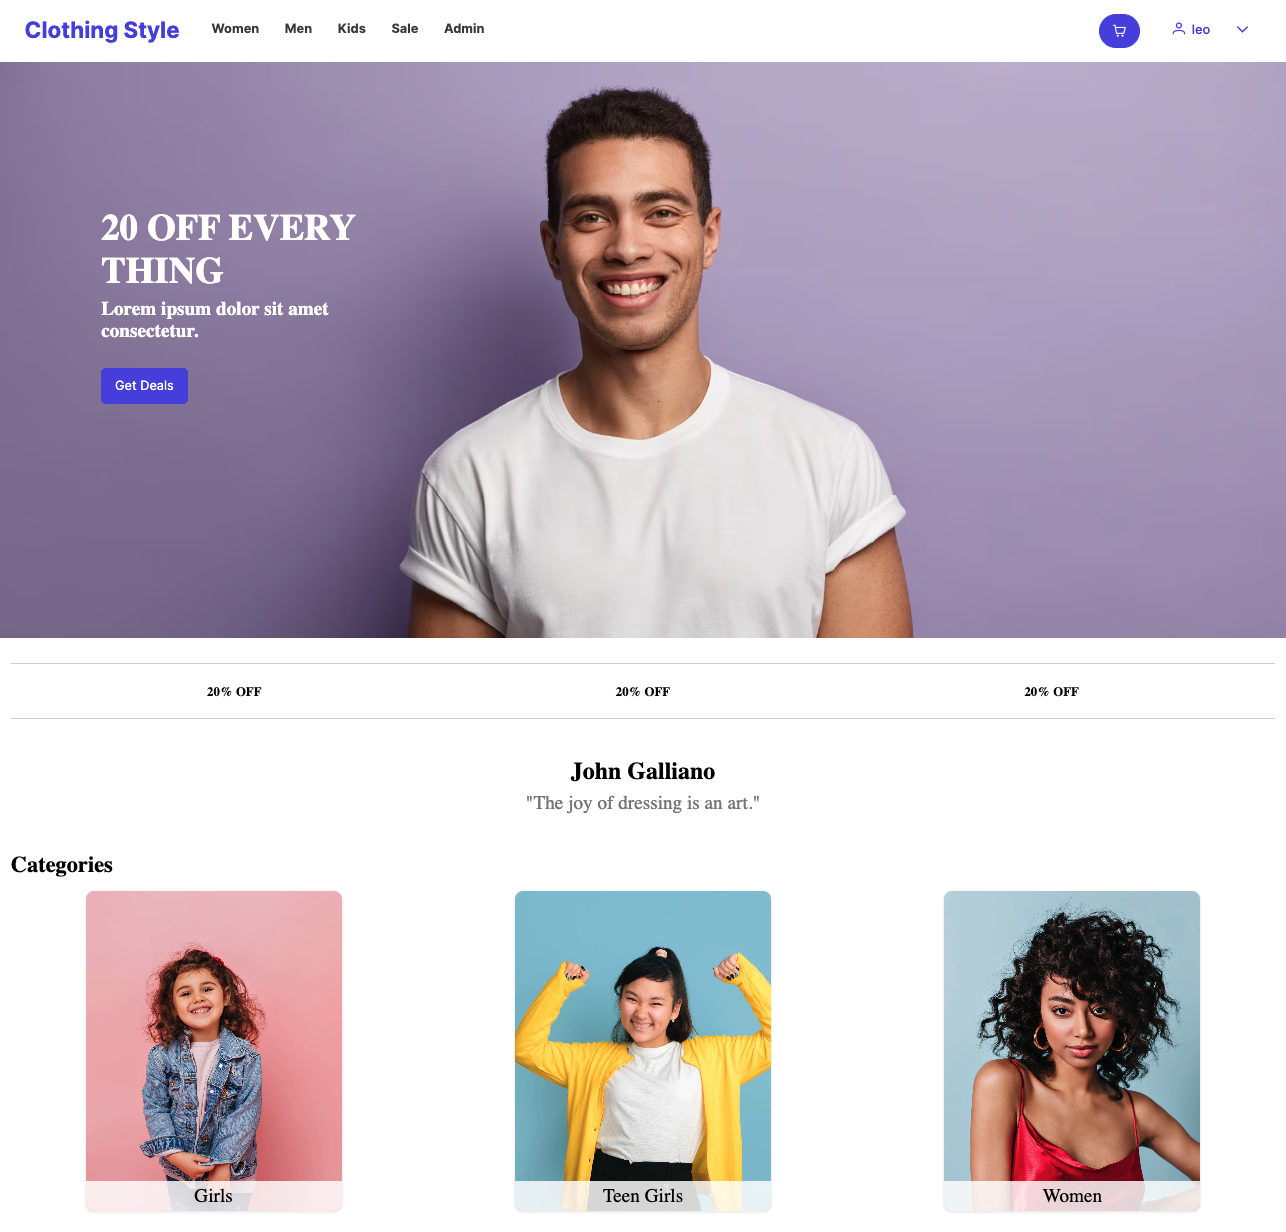
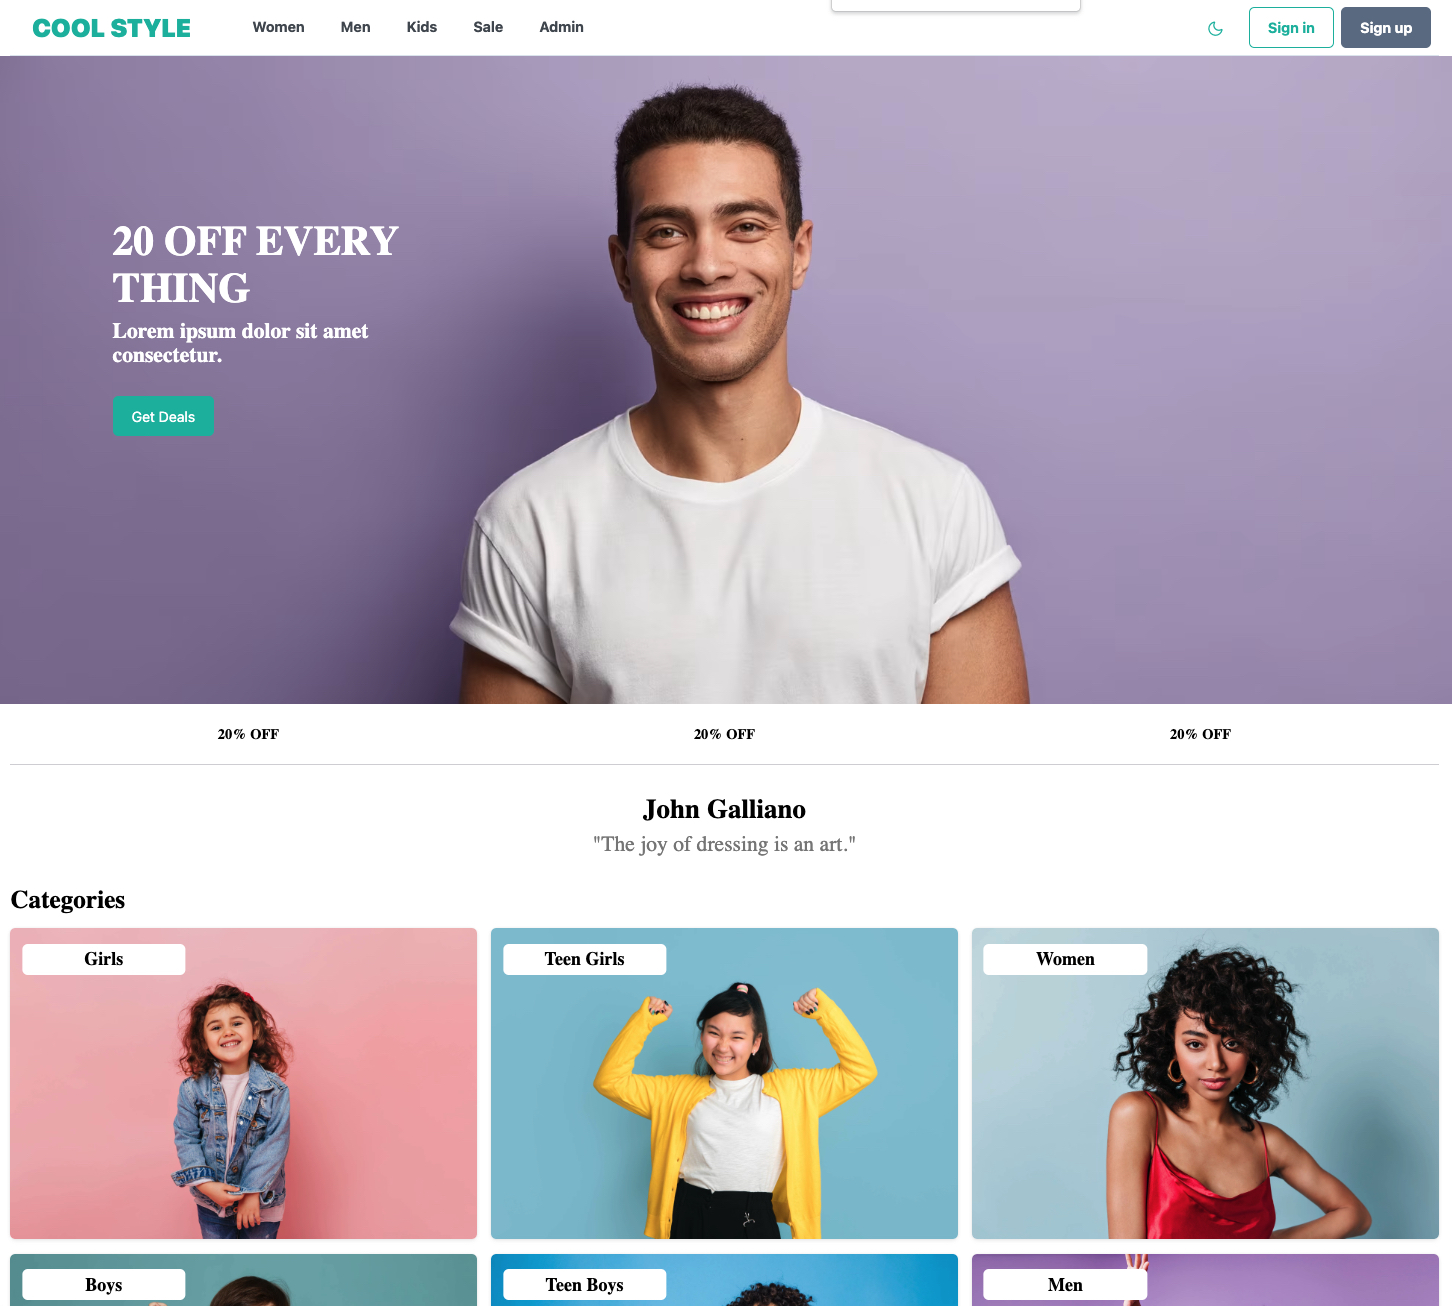
feat: add theme and dark mode
This adds different theme.
update footer.scss, homePage.scss and navbar.scss
fix homePage categories design

diff --git a/src/components/Navbar.jsx b/src/components/Navbar.jsx
@@ -1,15 +1,14 @@
 import React, { useContext, useState } from "react";
 import PrimeReact from "primereact/api";
 
-import { UserContext } from "../pages/auth/context/UserContext";
-
 import { Menubar } from "primereact/menubar";
 import { SplitButton } from "primereact/splitbutton";
 import { useNavigate } from "react-router-dom";
 import { Button } from "primereact/button";
+
+import { UserContext } from "../pages/auth/context/UserContext";
 import logo from "../../public/images/clothing-logo.svg";
 import "../styles/navbar.scss";
-PrimeReact.ripple = true;
 
 export const Navbar = () => {
   const navigate = useNavigate();
@@ -26,19 +25,8 @@ export const Navbar = () => {
       () => setTheme(newTheme)
     );
   };
-  // const changeMyTheme = () => {
-  //   console.log("...");
-  //   const newTheme = theme === "dark" ? "light" : "dark";
-  //   PrimeReact?.changeTheme?.(
-  //     `lara-${theme}-teal`,
-  //     `lara-${newTheme}-teal`,
-  //     "app-theme",
-  //     () => setTheme(newTheme)
-  //   );
-  // };
 
   const userOptions = [
-    // { icon: "pi pi-home", command: () => navigate("/home") },
     { label: "Women", command: () => navigate("/women") },
     { label: "Men", command: () => navigate("/men") },
     { label: "Kids", command: () => navigate("/kids") },
@@ -71,29 +59,30 @@ export const Navbar = () => {
   ];
 
   const end = globalUser.name ? (
-    <div>
+    <>
       <Button
         text
-        className="p-button-primary mr-2"
+        className="mr-2"
         onClick={() => changeMyTheme()}
       >
         <span className={`pi pi-${theme === "dark" ? "sun" : "moon"}`}></span>
       </Button>
+
       <Button
         badge={globalUser?.cart?.length}
-        className={`mr-4  ${globalUser.name === "admin" ? "hidden" : ""}`}
+        className={`mr-2 ${globalUser.name === "admin" ? "hidden" : ""}`}
         onClick={() => navigate("/cart")}
       >
         <i className="pi pi-shopping-cart"></i>
       </Button>
 
       <SplitButton
+        text
         label={globalUser?.name}
         icon="pi pi-user "
-        className=" p-button-text p-button-oulined"
         model={profileButton}
       ></SplitButton>
-    </div>
+    </>
   ) : (
     <span>
       <Button
@@ -105,14 +94,14 @@ export const Navbar = () => {
       </Button>
 
       <Button
-        label="Log in"
-        className="p-button-outlined  mr-2"
+        label="Sign in"
+        className="p-button-outlined mr-2"
         onClick={() => navigate("/sign_in")}
       />
 
       <Button
         label="Sign up"
-        className="p-button-secondary  "
+        className="p-button-secondary "
         onClick={() => navigate("/sign_up")}
       />
     </span>
@@ -121,14 +110,13 @@ export const Navbar = () => {
   const start = (
     <span
       className="textLogo"
-      style={{ cursor: "pointer" }}
       onClick={() => navigate("/home")}
     >
       {/* <img
-          src={logo}
-          width={30}
-          height={30}
-        /> */}
+        src={logo}
+        width={30}
+        height={30}
+      /> */}
       Cool Style
     </span>
   );

diff --git a/src/components/Footer.jsx b/src/components/Footer.jsx
@@ -5,7 +5,7 @@ import { socialItems } from "../utils/socialItemArr";
 import "../styles/footer.scss";
 export const Footer = () => {
   return (
-    <div className="footer ">
+    <footer className="footer ">
       <div className="footer__mailSection ">
         <h2>Sign up for our mailing list</h2>
         <p>Be the first to hear about new product</p>
@@ -25,7 +25,6 @@ export const Footer = () => {
                 size="small"
                 icon={item.icon}
                 className="bg-white text-primary"
-                // aria-label="Bookmark"
               />
             ))}
           </span>
@@ -78,10 +77,10 @@ export const Footer = () => {
         </div>
 
         <div className="footer__author">
-          <h4>Made by Leopoldo Miranda</h4>
-          <h5>All rights reserved</h5>
+          <p>Made by Leopoldo Miranda</p>
+          <p>All rights reserved</p>
         </div>
       </div>
-    </div>
+    </footer>
   );
 };

diff --git a/src/styles/footer.scss b/src/styles/footer.scss
@@ -21,10 +21,10 @@
 
     & > p {
       margin-top: 0.5rem;
+      font-size: 20px;
     }
 
     background: var(--primary-color);
-    // background: var(--surface-ground);
     color: #ffffff;
     padding: 0.5rem 1rem !important;
 
@@ -53,9 +53,6 @@
   }
 
   &__links {
-    // background-color: tomato;
-    // width: 500px;
-
     @media (min-width: 1024px) {
       display: flex;
       flex-direction: column;
@@ -78,6 +75,7 @@
       list-style-type: none;
       margin-bottom: 0.3rem;
       cursor: pointer;
+      font-size: 20px;
     }
 
     & h4,
@@ -93,13 +91,12 @@
 
   &__author {
     padding: 0.5rem 0 1rem 1rem !important;
+    font-size: 20px;
+
     color: var(--text-color-secondary);
 
-    & h4 {
+    & p {
       margin: 0 0 0.5rem 0;
-    }
-    & h5 {
-      margin: 0 0;
     }
 
     @media (min-width: 1024px) {

diff --git a/src/styles/homePage.scss b/src/styles/homePage.scss
@@ -50,14 +50,14 @@
 }
 
 .discounts {
-  border-top: solid 2px #d4d4d8;
+  // border-top: solid 2px #d4d4d8;
   border-bottom: solid 2px #d4d4d8;
 
   font-weight: bold;
   display: flex;
   justify-content: center;
-  padding: 1.5rem;
-  margin: 2rem 0px;
+  padding: 1.5rem 0;
+  // margin: 2rem 0px;
 
   display: flex;
   justify-content: space-around;
@@ -65,7 +65,7 @@
 
 .quote {
   text-align: center;
-  margin: 3rem 0rem;
+  margin: 2rem 0rem;
 
   &__author {
     font-size: 30px;
@@ -89,7 +89,8 @@
     display: grid;
     grid-template-columns: repeat(3, 1fr);
     margin-bottom: 40px;
-    gap: 30px;
+    // gap: 1.5rem;
+    gap: 1rem;
 
     @media (max-width: 1024px) {
       grid-template-columns: repeat(2, 1fr);

diff --git a/src/components/Card.jsx b/src/components/Card.jsx
@@ -13,8 +13,7 @@ export const Card = ({ img, title }) => {
     >
       <img
         width="100%"
-        height="100%"
-        alt="Card"
+        alt={img}
         src={`${URL}/${img}`}
         onError={(e) =>
           (e.target.src =
@@ -22,11 +21,11 @@ export const Card = ({ img, title }) => {
         }
       />
       <div
-        className="card-text text-2xl"
+        className="card-text text-xl"
         style={{
-          width: "100%",
-          left: "50%",
-          bottom: "0%",
+          width: "35%",
+          left: "20%",
+          top: "5%",
           transform: "translate(-50%, 0%)",
         }}
       >

diff --git a/src/main.jsx b/src/main.jsx
@@ -1,6 +1,7 @@
 import React from "react";
 import ReactDOM from "react-dom/client";
 import { BrowserRouter } from "react-router-dom";
+import PrimeReact from "primereact/api";
 
 // import "primereact/resources/themes/saga-purple/theme.css"; //theme
 // import "primereact/resources/themes/saga-blue/theme.css"; //theme
@@ -19,6 +20,7 @@ import "primereact/resources/primereact.min.css"; //core css
 import "primeicons/primeicons.css"; //icons
 import { ClothingApp } from "./ClothingApp";
 import "./styles/styles.css";
+PrimeReact.ripple = true;
 
 ReactDOM.createRoot(document.getElementById("root")).render(
   <BrowserRouter>

diff --git a/src/styles/styles.css b/src/styles/styles.css
@@ -149,18 +149,24 @@ a:hover {
 }
 
 .card-text {
-  background: #ffffffd3;
-  color: #000000;
+  /* background: #ffffffd3; */
+  /* color: #000000; */
+  font-weight: bold;
+  color: var(--text-0);
+  background: var(--surface-0);
+  border-radius: 6px;
+
   padding: 5px;
   position: absolute;
   text-align: center;
 }
 
 .card-container {
-  border-radius: 10px;
-  width: 320px;
+  display: flex;
+  border-radius: 6px;
+  /* width: 320px; */
   /* height: auto; */
-  height: 400px;
+  /* height: 400px; */
   overflow: hidden;
   position: absolute;
 }

diff --git a/src/styles/navbar.scss b/src/styles/navbar.scss
@@ -1,11 +1,13 @@
 .textLogo {
-  color: var(--primary-color);
   font-size: 28px;
+
+  color: var(--primary-color);
   font-weight: bolder;
   margin-right: 2rem;
   padding: 1rem;
   text-transform: uppercase;
   transition: all 0.1s ease-in-out;
+  cursor: pointer;
 
   &:hover {
     background-color: var(--primary-color);
@@ -15,6 +17,7 @@
 
 .navbar {
   border: none;
+  border-radius: 0;
   background-color: var(--surface-0);
   border-bottom: solid 1px var(--surface-border) !important;
   font-weight: bold;

diff --git a/src/pages/HomePage.jsx b/src/pages/HomePage.jsx
@@ -23,7 +23,10 @@ export const HomePage = () => {
       </header>
 
       <div className="container">
-        <section className="discounts">
+        <section
+          className="discounts"
+          // style={{ background: "black", color: "white" }}
+        >
           <div>20% OFF</div>
           <div>20% OFF</div>
           <div>20% OFF</div>
